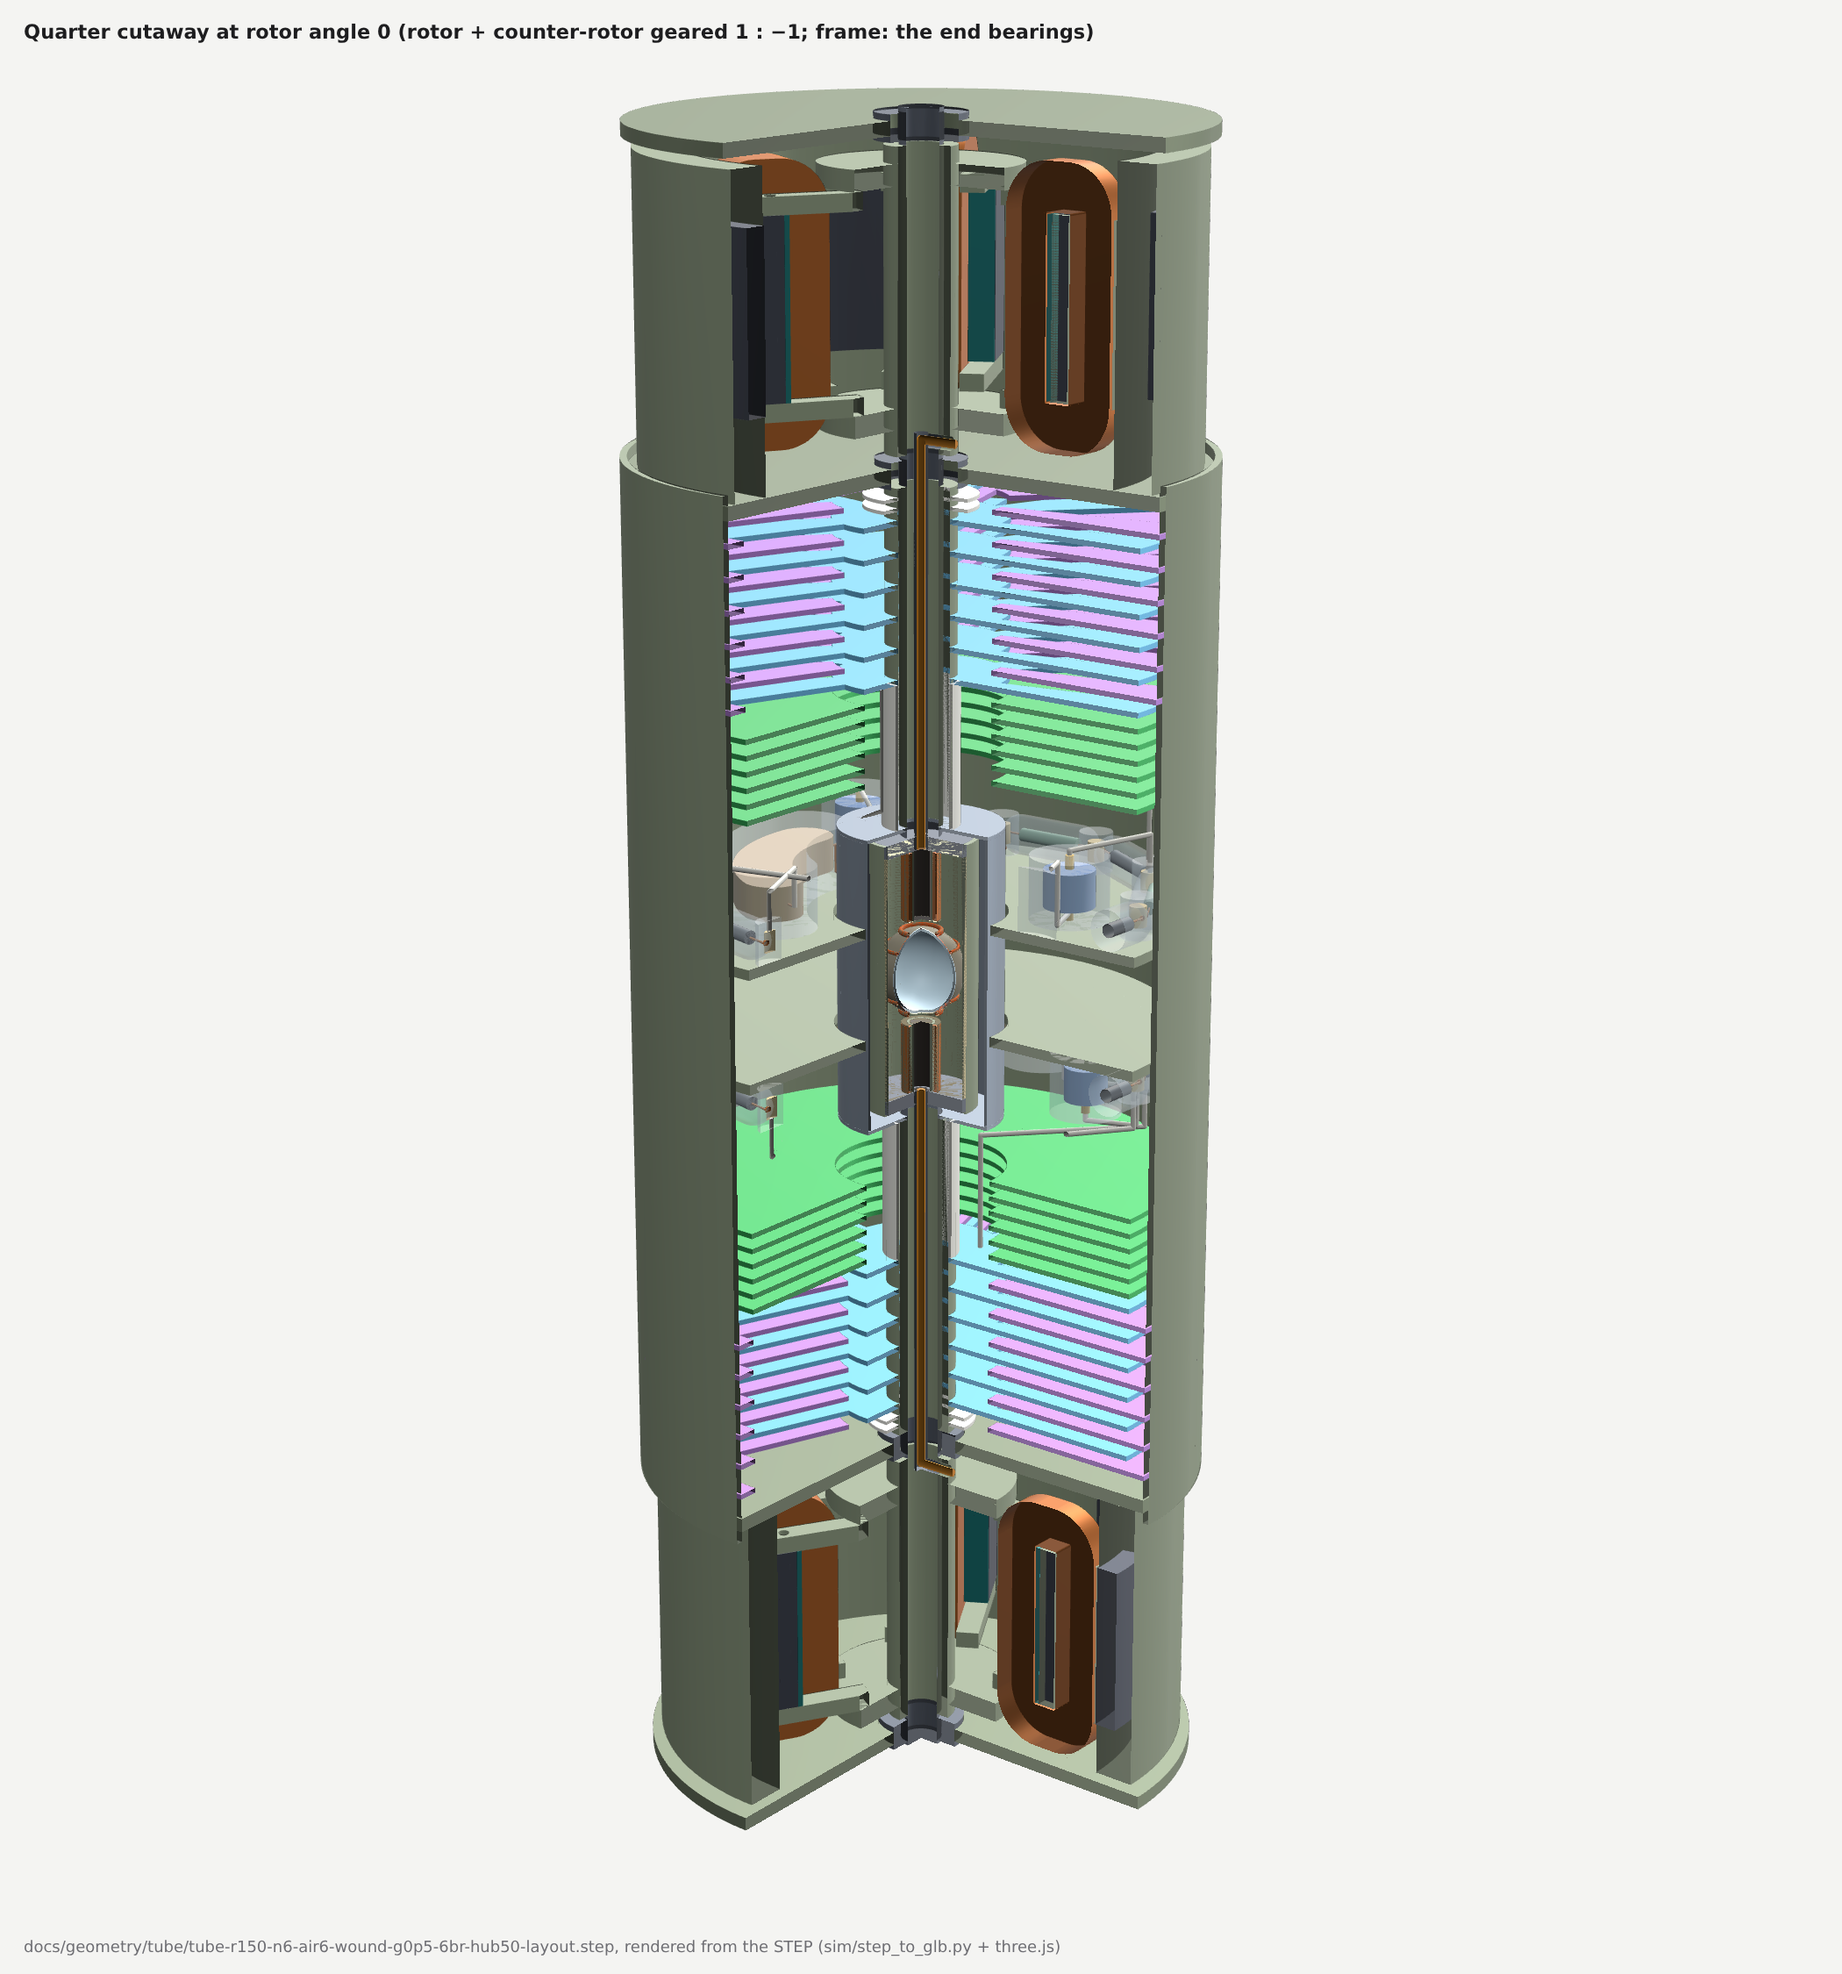
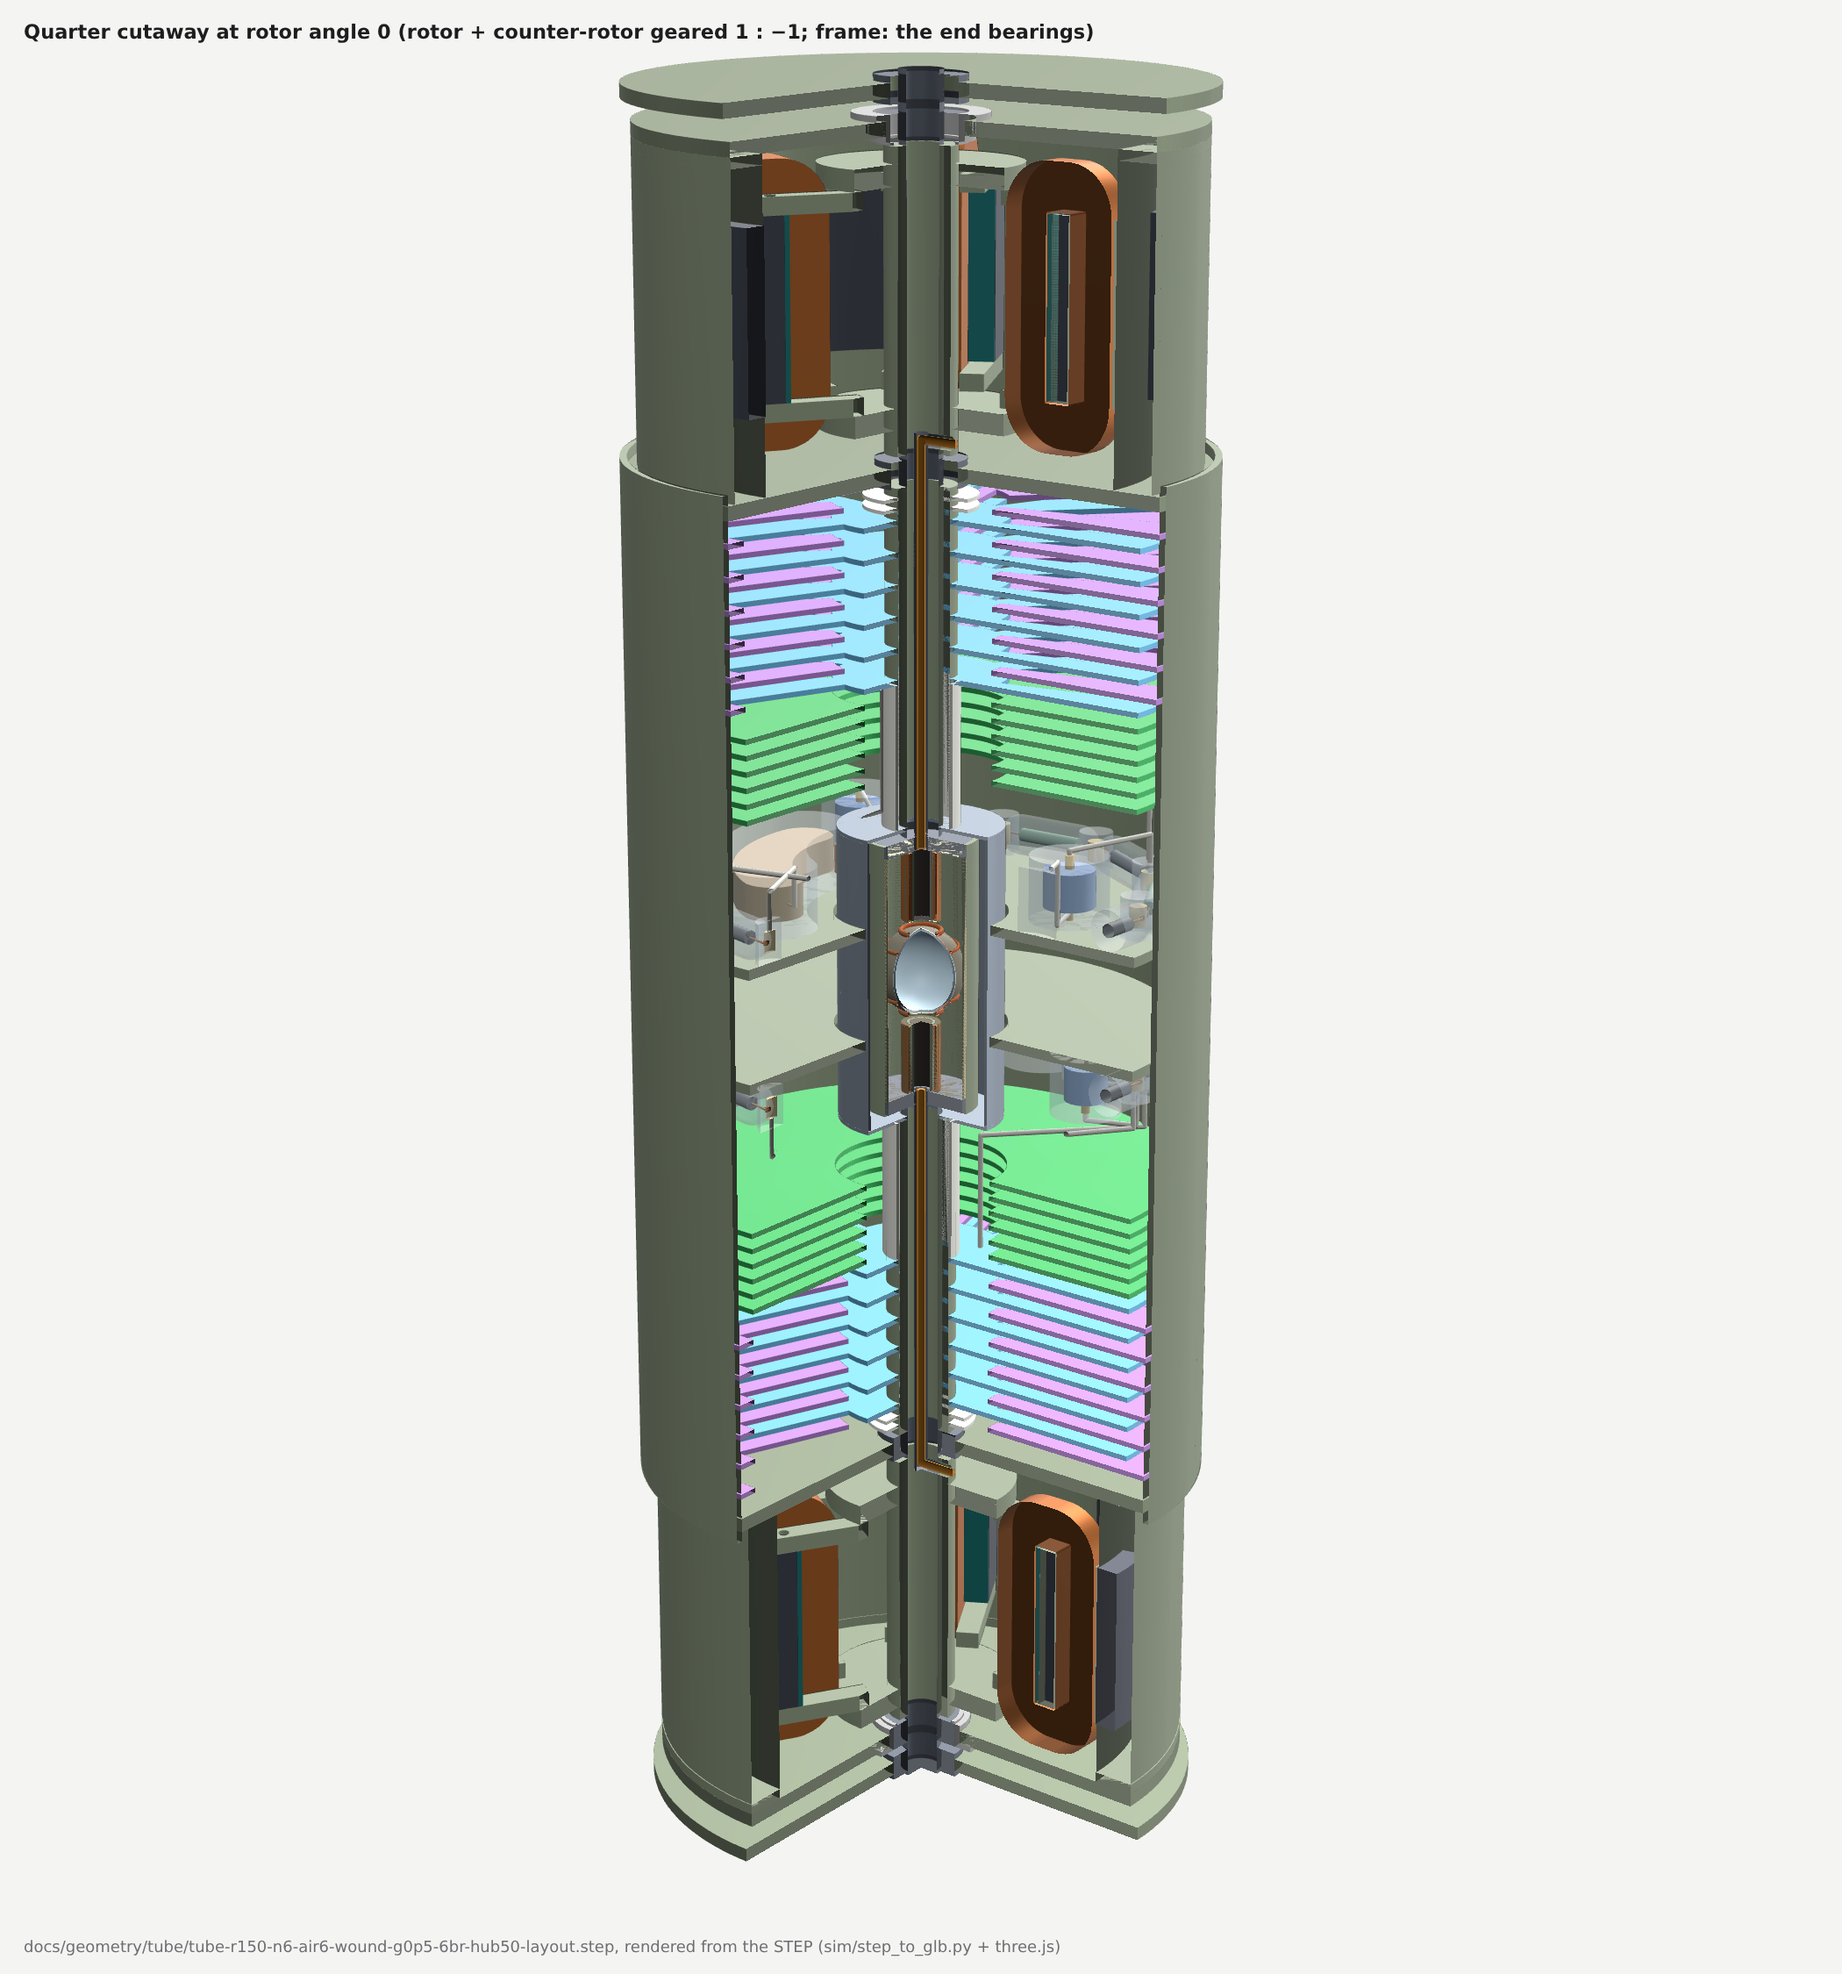
feat(tools): the viewer's "Ring bearing A" view; the layout's stills re-shot
tools/step-viewer/scene.js gains the ringA view (side A's end, quarter cut:
the frame's end bearing, the bridge-ring bearing in its cartridge, the
spider, the ring to the bridge ring, utron A1's end turns), shown when the
model carries the bridge-ring bearings; layout.html gains its button. Its
labels are short enough to stay clear of the page's panels.

The stills are re-shot on the rebuilt model (cutaway, bay, deckB, and the
bay and deck B at 25.5 deg of the cycle), with the new
...-layout-3d-ringA.png. The viewer is republished to the same artifact.

Claude-Session: https://claude.ai/code/session_019kWq1ZtzZgffamNAmjzqBU

Changed region(s): [[0.3405, 0.0, 0.681, 0.0933], [0.4643, 0.8711, 0.65, 0.9333], [0.3405, 0.8711, 0.4643, 0.9644]]

diff --git a/tools/step-viewer/scene.js b/tools/step-viewer/scene.js
@@ -213,6 +213,16 @@ function layoutViews(S, ctr) {
                     [new THREE.Vector3(mm(150), 0, zc - mm(140)), "Ca: node 2 toward the deck", 70, 0],
                     [new THREE.Vector3(mm(150), 0, zc - mm(220)), "C1: 6 + 6 vanes", 70, 10],
                     [new THREE.Vector3(mm(60), 0, zc - mm(289)), "Ca|reluctance bearing: the REF link", 120, 40]] },
+    ...(S.parts.some((p) => p.part === "A_bearing_bridge-ring") ? { ringA: {
+      title: "Side A's end, quarter cut: the end bearing (frame), and the bridge-ring bearing (SKF 6205-2Z, PROPOSED) in its cartridge on its spider under bridge ring A",
+      cut: "quarter", explode: false, size: [1500, 1150], zTop: mm(84), show: (p) => true,
+      target: new THREE.Vector3(mm(66), 0, mm(36)), dir: [1.0, -1.0, 0.36], dist: 0.6,
+      labels: [[new THREE.Vector3(mm(20), 0, mm(10)), "end bearing (frame)", -60, 120],
+               [new THREE.Vector3(mm(20), 0, mm(30)), "bridge-ring bearing, SKF 6205-2Z", 30, -270],
+               [new THREE.Vector3(mm(100), 0, mm(30)), "its spider, G10 8 mm", 50, 120],
+               [new THREE.Vector3(mm(144), 0, mm(37)), "6 mm G10 ring", 60, 70],
+               [new THREE.Vector3(mm(150), 0, mm(70)), "bridge ring A", -40, -70],
+               [new THREE.Vector3(mm(93), 0, mm(44)), "utron A1's end turns, 9 mm above", 30, -200]] } } : {}),
     deckB: { title: "Deck B in plan, from above: the sticks on the outer lane, C4 / C5 / C7, Csb and the clamp string Z4, each potted",
              cut: "none", explode: false, size: [1300, 1300], zBand: [zc + mm(25), zc + mm(82)], show: deck("B"),
              target: new THREE.Vector3(0, 0, zc + mm(50)), dir: [0.0001, -0.0001, 1], dist: 0.95, up: [0, 1, 0], labels: [] },

diff --git a/tools/step-viewer/layout.html b/tools/step-viewer/layout.html
@@ -155,6 +155,7 @@ th { font-weight: 500; color: var(--muted); }
         <button id="v-bay" data-view="bay">Central bay</button>
         <button id="v-deckB" data-view="deckB">Deck B</button>
         <button id="v-deckA" data-view="deckA">Deck A</button>
+        <button id="v-ringA" data-view="ringA">Ring bearing A</button>
         <button id="v-cutaway" data-view="cutaway">Cutaway</button>
         <button id="v-half" data-view="half">Half section</button>
         <button id="v-whole" data-view="whole">Whole</button>
